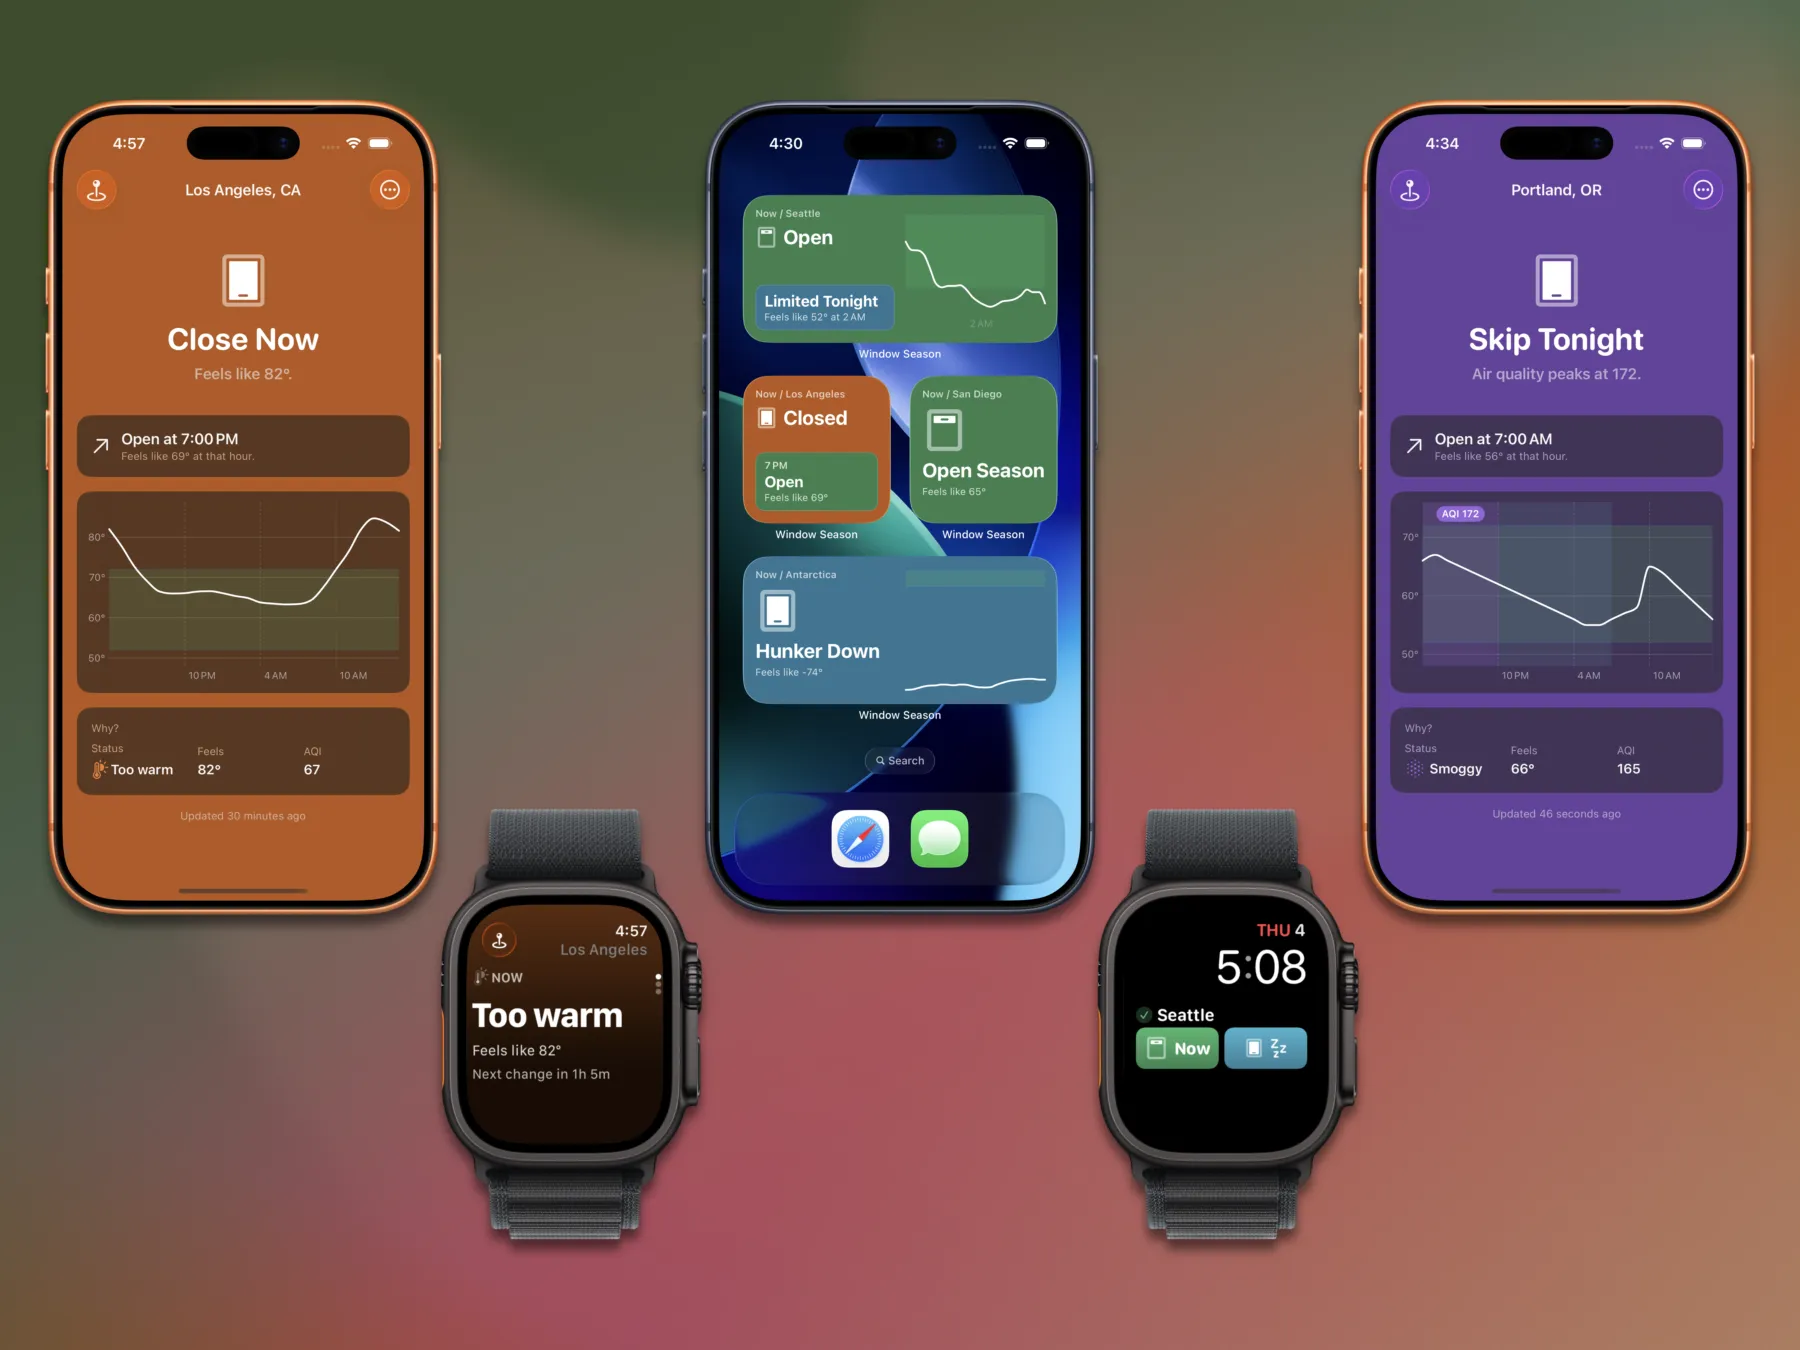
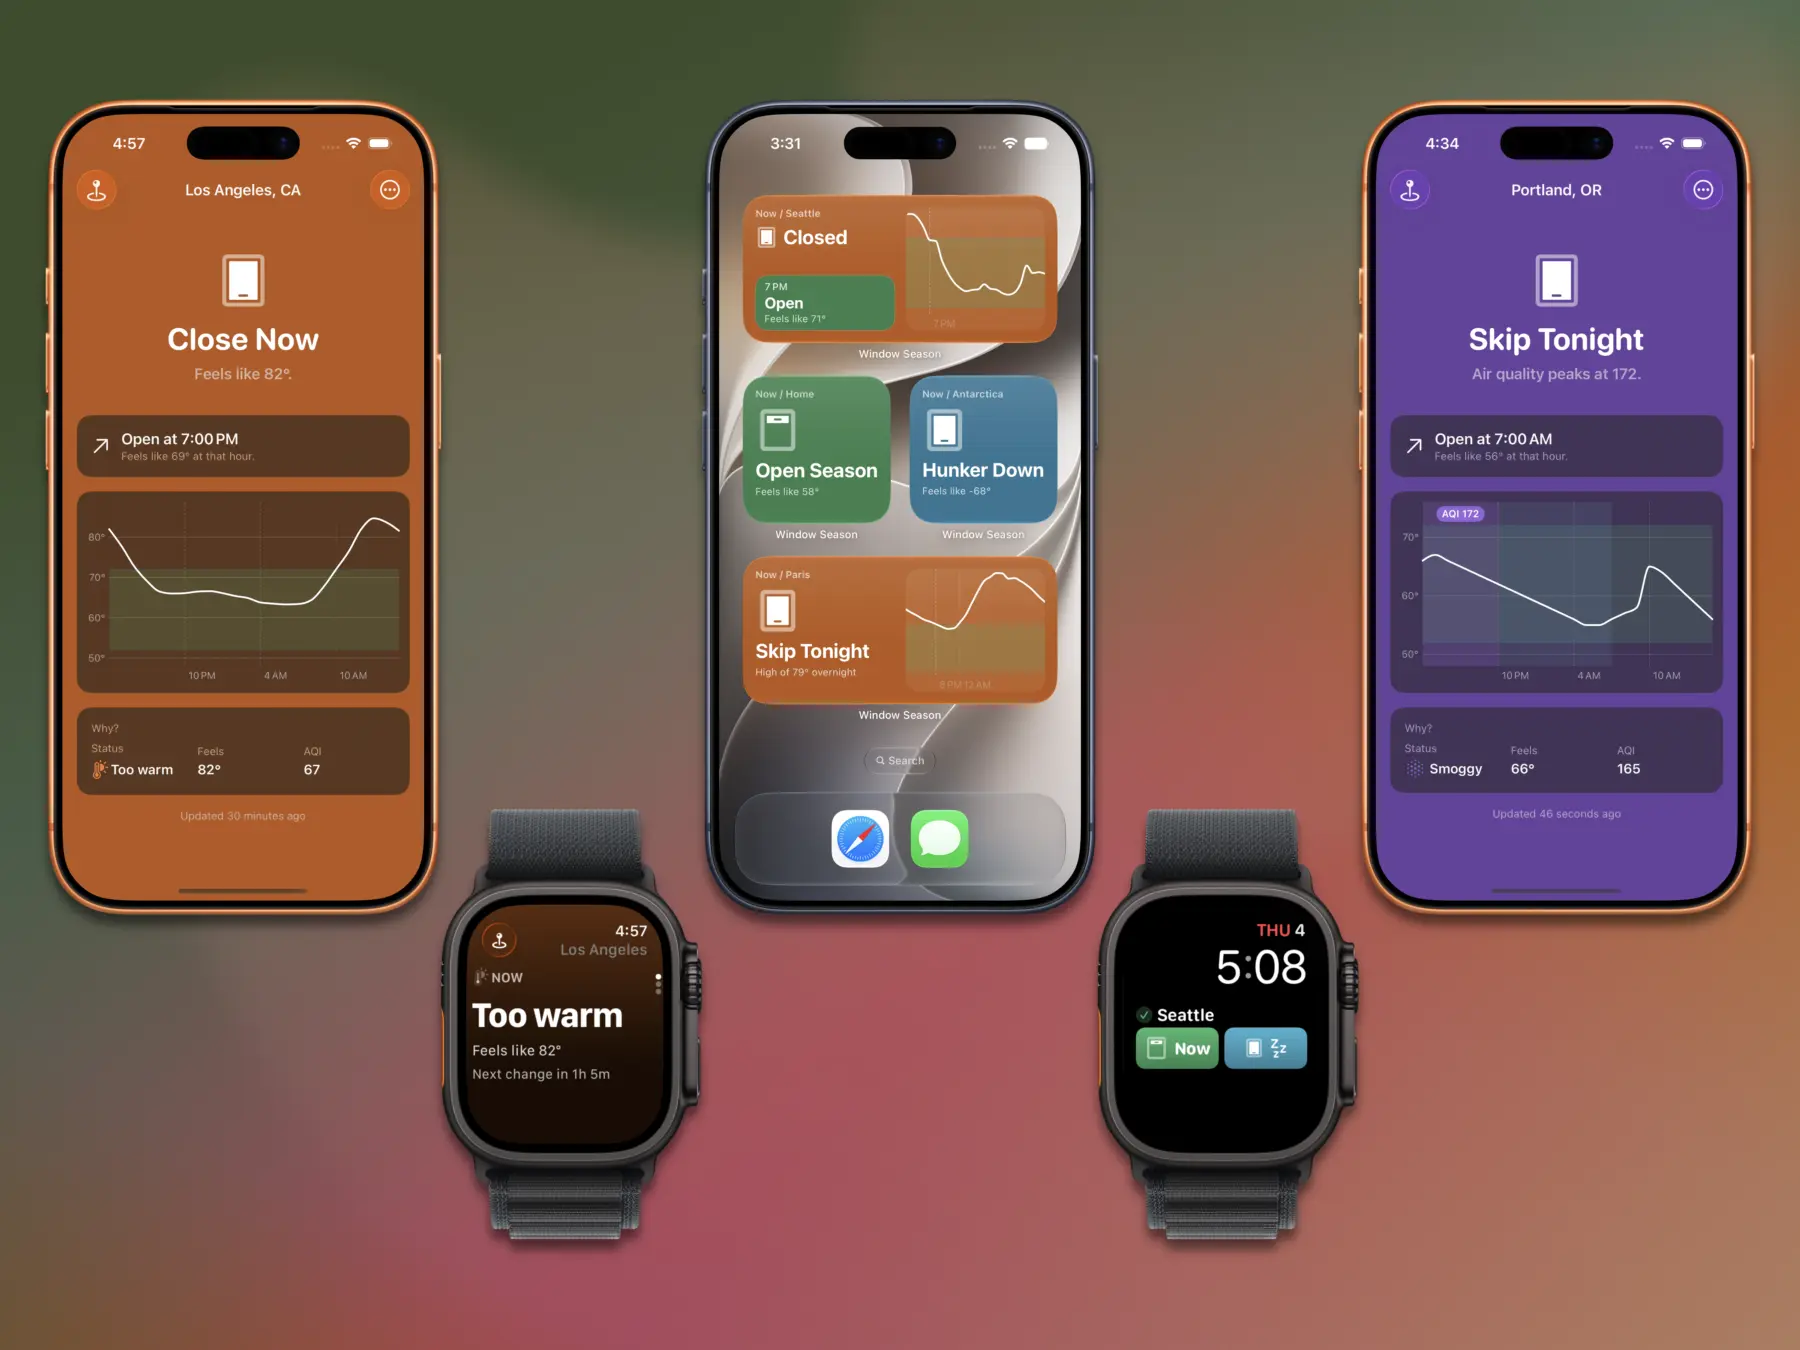
Portfolio Update

Changed region(s): [[0.3733, 0.0622, 0.6222, 0.6844]]

diff --git a/portfolio.html b/portfolio.html
@@ -108,7 +108,7 @@
                                 <span class="tag">New</span>
                             </div>
                             <p>For climates that usually lack air conditioning, an app that shows guidance of when to get the best passive cooling. Factors in feels-like temperature, rain, and air quality.</p>
-                            <p>Includes widgets for iOS and complications for watchOS.</p>
+                            <p>Includes widgets for iOS and complications for watchOS. Localized in English, French, Italian, German, and Spanish.</p>
                             <div class="platform-badges">
                                 <span class="platform-badge">iOS</span>
                                 <span class="platform-badge">watchOS</span>